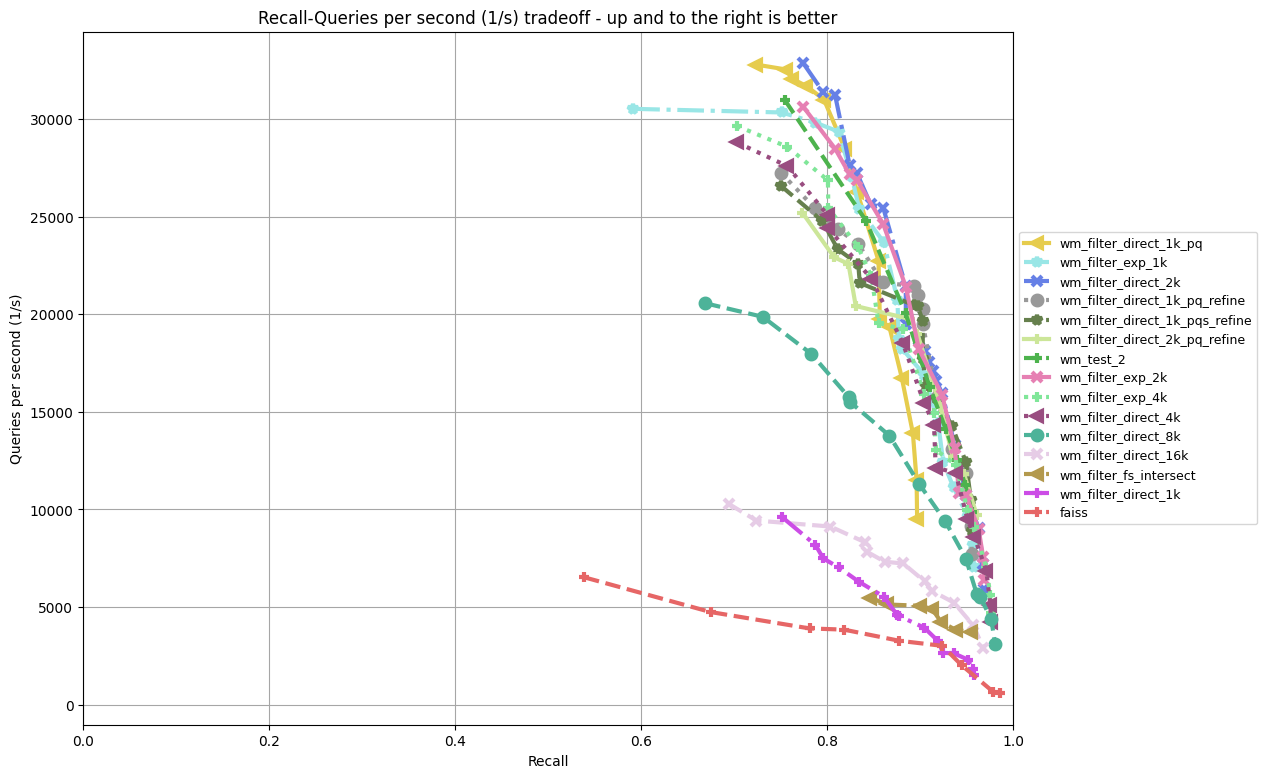
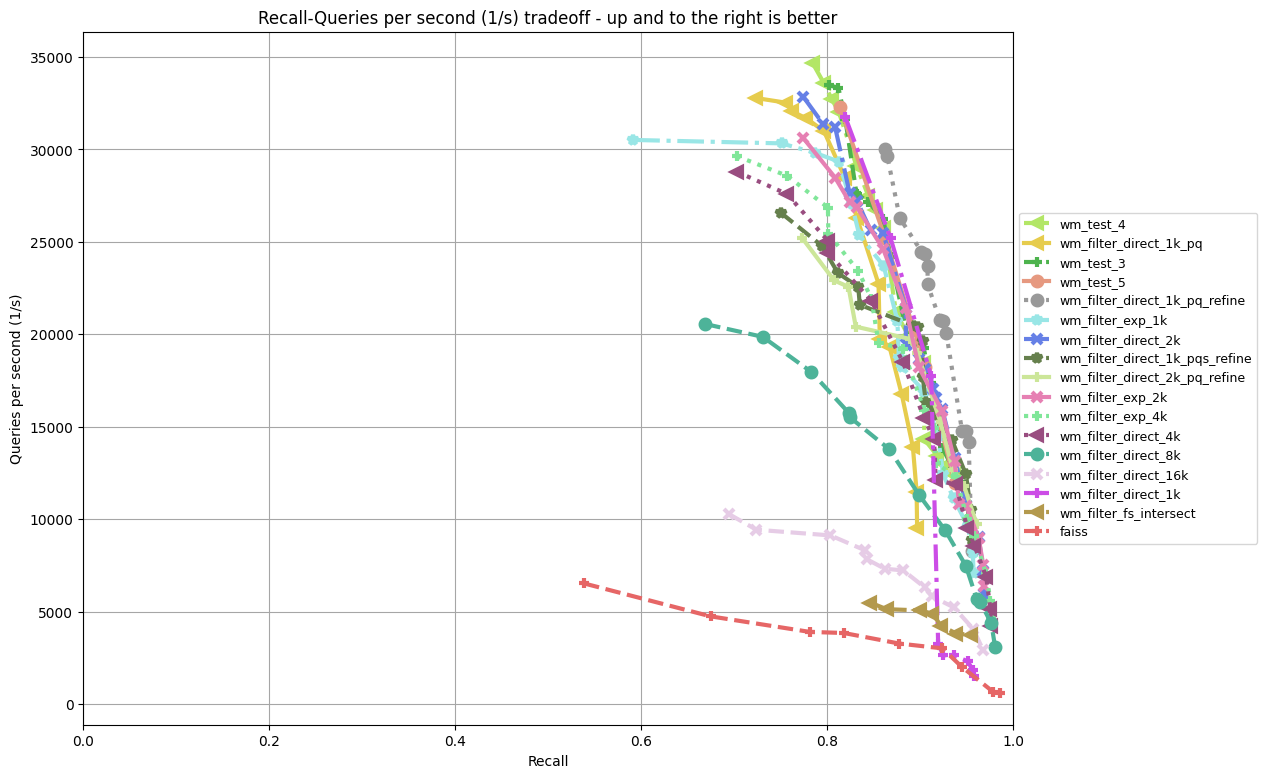
added support for different traversal of clusters

diff --git a/neurips23/filter/wm_filter/wm_filter.py b/neurips23/filter/wm_filter/wm_filter.py
@@ -290,6 +290,8 @@ class FAISS(BaseFilterANN):
         self.nt = index_params.get("threads", 1)
         self.type = index_params.get("type", "intersect")
 
+        self.clustet_dist = []
+
 
     def fit(self, dataset):
         faiss.omp_set_num_threads(self.nt)
@@ -496,12 +498,21 @@ class FAISS(BaseFilterANN):
             qwords = csr_get_row_indices(meta_q, q)
             #assert qwords.size in (1, 2)
             w1 = qwords[0]
+            #num_clusters = self.cluster_limits[w1+1] - self.cluster_limits[w1]
+            #wd = self.ndoc_per_word[w1]
             #freq = freq_per_word[w1]
             if qwords.size == 2:
                 w2 = qwords[1]
                 #freq *= freq_per_word[w2]
+                #num_clusters = min( num_clusters, self.cluster_limits[w2 + 1] - self.cluster_limits[w2])
+                #wd = min(wd, self.ndoc_per_word[w1])
             else:
                 w2 = -1
+
+            #if wd < 2000:
+            #    print("num probes: ", num_clusters, 'num docs: ', wd)
+
+            #self.clustet_dist.append(num_clusters)
 
             if thread not in selector_by_thread:
 
@@ -525,7 +536,7 @@ class FAISS(BaseFilterANN):
 
             sel.set_words(int(w1), int(w2))
 
-            params = faiss.SearchParametersIVF(sel=sel, nprobe=self.nprobe, max_codes=self.max_codes)
+            params = faiss.SearchParametersIVF(sel=sel, nprobe=self.nprobe, max_codes=self.max_codes, selector_probe_limit=self.selector_probe_limit)
             _, Ii = self.index.search( X[q:q+1], k, params=params)
             Ii = Ii.ravel()
             self.I[q] = Ii
@@ -539,6 +550,15 @@ class FAISS(BaseFilterANN):
 
             pool = ThreadPool(self.nt)
             list(pool.map(process_one_row, range(nq)))
+
+        # distances = [20, 40, 80, 100, 200, 400]
+        # for d in distances:
+        #     count = 0
+        #     for c in self.clustet_dist:
+        #         if c <= d:
+        #             count+= 1
+        #     print('distance: ', d, " selected: ", count, (count+0.0)/1000)
+        # self.clustet_dist = []
 
 
     def get_results(self):
@@ -559,14 +579,18 @@ class FAISS(BaseFilterANN):
             self.qas = query_args
         else:
             self.max_codes = -1
+        if "selector_probe_limit" in query_args:
+            self.selector_probe_limit = query_args['selector_probe_limit']
+            self.ps.set_index_parameters(self.index, f"selector_probe_limit={query_args['selector_probe_limit']}")
+            self.qas = query_args
+        else:
+            self.selector_probe_limit = 0
+
         if "k_factor" in query_args:
             self.k_factor = query_args['k_factor']
             self.qas = query_args
 
-        if "mt_threshold" in query_args:
-            self.metadata_threshold = query_args['mt_threshold']
-        else:
-            self.metadata_threshold = 1e-3
+
 
     def __str__(self):
         return f'Faiss({self.indexkey,self.type, self.qas})'
